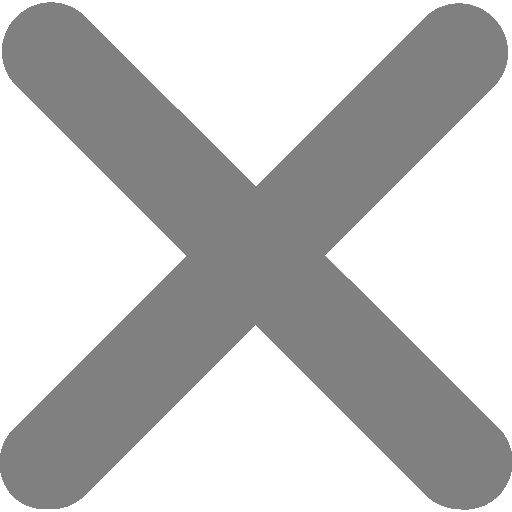
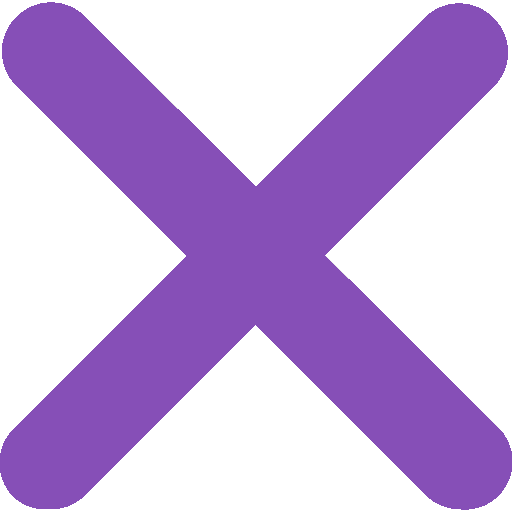
Changing design of registration

diff --git a/MapDBTrack/Registration.xaml b/MapDBTrack/Registration.xaml
@@ -3,54 +3,162 @@
         xmlns:x="http://schemas.microsoft.com/winfx/2006/xaml"
         xmlns:d="http://schemas.microsoft.com/expression/blend/2008"
         xmlns:mc="http://schemas.openxmlformats.org/markup-compatibility/2006"
+        xmlns:materialDesign="http://materialdesigninxaml.net/winfx/xaml/themes"
         xmlns:local="clr-namespace:MapDBTrack"
-        mc:Ignorable="d"
-        Title="Registration" Height="850" Width="600" ResizeMode="NoResize">
+        mc:Ignorable="d" WindowStartupLocation="CenterScreen" WindowStyle="None" AllowsTransparency="True"
+        Background="Transparent"
+        Title="MainWindow" Height="600" Width="800" FontFamily="{DynamicResource MaterialDesignFont}">
 
 
-    <Grid>
-        <Image Source="Pictures/Background.jpg" Stretch="Fill"/>
-        <Border Grid.Column="0" Grid.Row="0" Width="400" CornerRadius="30" BorderThickness="2" Background="#FFD1E1EC" Margin="75,75,75,75">
+    <Grid MouseDown="BorderClick">
+        <Grid.ColumnDefinitions>
+            <ColumnDefinition Width="*"/>
+            <ColumnDefinition Width="1.5*"/>
+        </Grid.ColumnDefinitions>
+        <Border Background="#FF7B4BA5" CornerRadius="15,0,0,15">
             <Grid>
-                <Grid.RowDefinitions>
-                    <RowDefinition Height="80"/>
-                    <RowDefinition Height="2"/>
-                    <RowDefinition Height="*"/>
-                    <RowDefinition Height="*"/>
-                    <RowDefinition Height="*"/>
-                    <RowDefinition Height="*"/>
-                    <RowDefinition Height="90"/>
-                </Grid.RowDefinitions>
-                <Grid.ColumnDefinitions>
-                    <ColumnDefinition Width="*"/>
-                    <ColumnDefinition Width="*"/>
-                </Grid.ColumnDefinitions>
-
-
-                <TextBlock Grid.Row="0" Grid.Column="0" Grid.ColumnSpan="2" Foreground="#FF2F5588" Text="REGISTRATION" VerticalAlignment="Center" HorizontalAlignment="Center" FontSize="35" FontWeight="DemiBold" FontFamily="Calibri"/>
-                <Border Grid.Row="1" Grid.Column="0"  Grid.ColumnSpan="2" Background="#FF2F5588" />
-                
-                <TextBox x:Name="Login" Grid.Row="2" Grid.Column="0" Grid.ColumnSpan="2" TextChanged="LoginChanged"  Style="{StaticResource RoundedTextBox}"/>
-                <TextBox x:Name="Email" Grid.Row="3" Grid.Column="0" Grid.ColumnSpan="2" TextChanged="EmailChanged"  Style="{StaticResource RoundedTextBoxEmail}"/>
-                <TextBox x:Name="Password" Grid.Row="4" Grid.Column="0" Grid.ColumnSpan="2" TextChanged="PasswordChanged"   Style="{StaticResource RoundedTextBox}"/>
-                <TextBox x:Name="RepeatPassword" Grid.Row="5" Grid.Column="0" Grid.ColumnSpan="2" TextChanged="RepeatPasswordChanged"  Style="{StaticResource RoundedTextBox}"/>
-
-
-                <TextBlock Text="User name" Grid.Row="2" Width="60" Height="20" Margin="47,24,91,83" Foreground="#FF2F5588" FontWeight="DemiBold" FontFamily="Calibri"/>
-                <TextBlock Text="Email" Grid.Row="3" Width="60" Height="20" Margin="47,24,91,83" Foreground="#FF2F5588" FontWeight="DemiBold" FontFamily="Calibri"/>
-                <TextBlock Text="Password" Grid.Row="4" Width="60" Height="20" Margin="47,24,91,83" Foreground="#FF2F5588" FontWeight="DemiBold" FontFamily="Calibri"/>
-                <TextBlock Text="Repeat password" Grid.Row="5" Height="20" Margin="47,24,63,83" Foreground="#FF2F5588" FontWeight="DemiBold" FontFamily="Calibri"/>
-
-                <TextBlock x:Name="LoginFailed" Text="" Grid.Column="0" Grid.ColumnSpan="2" Grid.Row="2" Width="200" Height="20" Margin="47,83,149,24" FontSize="10" FontWeight="DemiBold" Foreground="Red" FontFamily="Calibri"/>
-                <TextBlock x:Name="EmailFailed" Text="" Grid.Column="0" Grid.ColumnSpan="2" Grid.Row="3" Width="200" Height="20" Margin="47,83,157,24" FontSize="10" FontWeight="DemiBold" Foreground="Red" FontFamily="Calibri"/>
-                <TextBlock x:Name="PasswordFailed" Text="" Grid.Column="0" Grid.ColumnSpan="2" Grid.Row="4" Width="200" Height="20" Margin="47,83,157,24" FontSize="10" FontWeight="DemiBold" Foreground="Red" FontFamily="Calibri"/>
-                <TextBlock x:Name="RepeatPasswordFailed" Text="" Grid.Column="0" Grid.ColumnSpan="2" Grid.Row="5" Width="200" Height="20" Margin="47,83,157,24" FontSize="10" FontWeight="DemiBold" Foreground="Red" FontFamily="Calibri"/>
-
-                <Button Content="Back" Click="Back" Grid.Column="0" Grid.Row="6" Style="{StaticResource ButtonRounded}"/>
-                <Button Content="Accept" Click="SignUp" Grid.Column="1" Grid.Row="6" Style="{StaticResource ButtonRounded}"/>
-
+                <Image Source="/Pictures/PinLogin.png" Margin="42,120,208,410" Style="{StaticResource LoginPinImage}">
+                    <Image.RenderTransform>
+                        <TransformGroup>
+                            <ScaleTransform/>
+                            <SkewTransform/>
+                            <RotateTransform Angle="66.012"/>
+                            <TranslateTransform/>
+                        </TransformGroup>
+                    </Image.RenderTransform>
+                </Image>
+                <Image Source="/Pictures/PinLogin.png" Margin="8,522,242,8" Style="{StaticResource LoginPinImage}">
+                    <Image.RenderTransform>
+                        <TransformGroup>
+                            <ScaleTransform/>
+                            <SkewTransform/>
+                            <RotateTransform Angle="-99.619"/>
+                            <TranslateTransform/>
+                        </TransformGroup>
+                    </Image.RenderTransform>
+                </Image>
+                <Image Source="/Pictures/PinLogin.png" Margin="223,512,27,18" Style="{StaticResource LoginPinImage}">
+                    <Image.RenderTransform>
+                        <TransformGroup>
+                            <ScaleTransform/>
+                            <SkewTransform/>
+                            <RotateTransform Angle="104.19"/>
+                            <TranslateTransform/>
+                        </TransformGroup>
+                    </Image.RenderTransform>
+                </Image>
+                <Image Source="/Pictures/PinLogin.png" Margin="133,9,117,521" Style="{StaticResource LoginPinImage}">
+                    <Image.RenderTransform>
+                        <TransformGroup>
+                            <ScaleTransform/>
+                            <SkewTransform/>
+                            <RotateTransform Angle="184.246"/>
+                            <TranslateTransform/>
+                        </TransformGroup>
+                    </Image.RenderTransform>
+                </Image>
+                <Image Source="/Pictures/PinLogin.png" Margin="219,28,31,352" Style="{StaticResource LoginPinImage}">
+                    <Image.RenderTransform>
+                        <TransformGroup>
+                            <ScaleTransform/>
+                            <SkewTransform/>
+                            <RotateTransform Angle="170.632"/>
+                            <TranslateTransform/>
+                        </TransformGroup>
+                    </Image.RenderTransform>
+                </Image>
+                <Image Source="/Pictures/PinLogin.png" Margin="22,200,228,180" Style="{StaticResource LoginPinImage}">
+                    <Image.RenderTransform>
+                        <TransformGroup>
+                            <ScaleTransform/>
+                            <SkewTransform/>
+                            <RotateTransform Angle="-0.856"/>
+                            <TranslateTransform/>
+                        </TransformGroup>
+                    </Image.RenderTransform>
+                </Image>
+                <Image Source="/Pictures/PinLogin.png" Margin="206,246,44,134" Style="{StaticResource LoginPinImage}">
+                    <Image.RenderTransform>
+                        <TransformGroup>
+                            <ScaleTransform/>
+                            <SkewTransform/>
+                            <RotateTransform Angle="-74.402"/>
+                            <TranslateTransform/>
+                        </TransformGroup>
+                    </Image.RenderTransform>
+                </Image>
+                <Image Source="/Pictures/PinLogin.png" Margin="101,346,149,34" Style="{StaticResource LoginPinImage}">
+                    <Image.RenderTransform>
+                        <TransformGroup>
+                            <ScaleTransform/>
+                            <SkewTransform/>
+                            <RotateTransform Angle="25.655"/>
+                            <TranslateTransform/>
+                        </TransformGroup>
+                    </Image.RenderTransform>
+                </Image>
+                <Grid>
+                    <Grid.RowDefinitions>
+                        <RowDefinition Height="84*"/>
+                        <RowDefinition Height="22*"/>
+                        <RowDefinition Height="20*"/>
+                        <RowDefinition Height="74*"/>
+                    </Grid.RowDefinitions>
+                    <Image Source="/Pictures/add-group.png" Margin="80,40,80,20" RenderOptions.BitmapScalingMode="HighQuality"/>
+                    <TextBlock Text="Let's get you set up" Grid.Row="1" Foreground="White" FontSize="32" VerticalAlignment="Center" HorizontalAlignment="Center" FontFamily="Calibri"/>
+                    <TextBlock Text="it should only take a couple of minutes to pair with your watch" Grid.Row="2" TextWrapping="Wrap" TextAlignment="Center"  VerticalAlignment="Center" HorizontalAlignment="Center" FontSize="15" Foreground="White" FontFamily="Calibri" Width="254"/>
+                    <Image Source="/Pictures/enter.png" Grid.Row="3"  RenderOptions.BitmapScalingMode="HighQuality" Margin="129,106,129,54" IsHitTestVisible="False"/>
+                    <Button Grid.Row="3" Background="Transparent" BorderBrush="Transparent"  Click="ExitClick" Width="50" Height="60" Margin="135,107,135,55"/>
+                </Grid>
             </Grid>
         </Border>
+        <Border Grid.Column="1" CornerRadius="0,15,15,0" Background="White">
+            <Grid>
+                <StackPanel HorizontalAlignment="Center" Margin="0,70,0,0" VerticalAlignment="Top" Width="340" Height="395">
+                    <TextBox x:Name="Login" TextChanged="LoginChanged" Height="50" FontSize="17" BorderThickness="0 0 0 1.5" BorderBrush="#C5C8CC" materialDesign:HintAssist.FloatingOffset="0,-20" materialDesign:HintAssist.Hint="Username" Margin="0,0,0,10" Text="" Style="{StaticResource MaterialDesignFloatingHintTextBox}" />
+                    <TextBlock x:Name="LoginFailed" Style="{StaticResource TextBlokcsError}" Margin="2,0,0,15" HorizontalAlignment="Left"/>
+                    <TextBox x:Name="Email" TextChanged="EmailChanged" Height="50" FontSize="17" BorderThickness="0 0 0 1.5" BorderBrush="#C5C8CC" materialDesign:HintAssist.FloatingOffset="0,-20" materialDesign:HintAssist.Hint="Email" Text="" Margin="0 0 0 10" Style="{StaticResource MaterialDesignFloatingHintTextBox}" />
+                    <TextBlock x:Name="EmailFailed" Style="{StaticResource TextBlokcsError}" Margin="2,0,0,15" HorizontalAlignment="Left"/>
+                    <PasswordBox x:Name="Password" PasswordChanged="PasswordChanged" Height="50" FontSize="17" BorderThickness="0 0 0 1.5" BorderBrush="#C5C8CC" materialDesign:HintAssist.FloatingOffset="0,-20" materialDesign:HintAssist.Hint="Password" Password=""  Style="{StaticResource MaterialDesignFloatingHintPasswordBox}" />
+                    <TextBlock x:Name="PasswordFailed" Style="{StaticResource TextBlokcsError}" Margin="2,0,0,15" HorizontalAlignment="Left"/>
+                    <PasswordBox x:Name="RepeatPassword" PasswordChanged="RepeatPasswordChanged" Height="50" FontSize="17" BorderThickness="0 0 0 1.5" BorderBrush="#C5C8CC" materialDesign:HintAssist.FloatingOffset="0,-20" materialDesign:HintAssist.Hint="Repeat Password" Password="" Margin="0 10 0 0" Style="{StaticResource MaterialDesignFloatingHintPasswordBox}" />
+                    <TextBlock x:Name="RepeatPasswordFailed" Style="{StaticResource TextBlokcsError}" Margin="2,0,0,15" HorizontalAlignment="Left"/>
 
+                </StackPanel>
+                <Image Source="/Pictures/close.png" Margin="453,10,10,573" RenderOptions.BitmapScalingMode="HighQuality" IsHitTestVisible="False"/>
+                <Image Source="/Pictures/info.png" Margin="423,10,40,573" RenderOptions.BitmapScalingMode="HighQuality" IsHitTestVisible="False"/>
+
+                <Button BorderBrush="Transparent" Background="Transparent" Click="ExitClick" Cursor="Hand" Height="17" Width="17" Margin="453,10,10,573">
+                    <Button.Template>
+                        <ControlTemplate TargetType="Button">
+                            <Border Background="Transparent" Padding="{TemplateBinding Padding}">
+                                <ContentPresenter HorizontalAlignment="{TemplateBinding HorizontalContentAlignment}" VerticalAlignment="{TemplateBinding VerticalContentAlignment}" />
+                            </Border>
+                            <ControlTemplate.Triggers>
+                                <Trigger Property="IsEnabled" Value="False">
+                                    <Setter Property="Background" Value="Transparent" />
+                                </Trigger>
+                            </ControlTemplate.Triggers>
+                        </ControlTemplate>
+                    </Button.Template>
+                </Button>
+
+                <Button BorderBrush="Transparent" Background="Transparent" Click="InfoClick" Cursor="Hand" Height="17" Width="17" Margin="423,10,40,573">
+                    <Button.Template>
+                        <ControlTemplate TargetType="Button">
+                            <Border Background="Transparent" Padding="{TemplateBinding Padding}">
+                                <ContentPresenter HorizontalAlignment="{TemplateBinding HorizontalContentAlignment}" VerticalAlignment="{TemplateBinding VerticalContentAlignment}" />
+                            </Border>
+                            <ControlTemplate.Triggers>
+                                <Trigger Property="IsEnabled" Value="False">
+                                    <Setter Property="Background" Value="Transparent" />
+                                </Trigger>
+                            </ControlTemplate.Triggers>
+                        </ControlTemplate>
+                    </Button.Template>
+                </Button>
+                <Button Click="SignUp" Style="{StaticResource ButtonSign}" Content="Sign up" Margin="160,485,160,55"/>
+            </Grid>
+        </Border>
     </Grid>
 </Window>

diff --git a/MapDBTrack/Login.xaml b/MapDBTrack/Login.xaml
@@ -6,7 +6,7 @@
         xmlns:local="clr-namespace:MapDBTrack"
         mc:Ignorable="d" WindowStartupLocation="CenterScreen" WindowStyle="None" AllowsTransparency="True"
         Background="Transparent"
-        Title="MainWindow" Height="450" Width="800">
+        Title="MainWindow" Height="450" Width="800" ResizeMode="NoResize">
 
     <Grid MouseDown="BorderClick">
         <Grid.ColumnDefinitions>
@@ -93,7 +93,8 @@
                     <RowDefinition Height="*"/>
                 </Grid.RowDefinitions>
 
-                <Image Source="/Pictures/close.png" Margin="453,10,10,86" Opacity="0.4" RenderOptions.BitmapScalingMode="HighQuality" IsHitTestVisible="False"/>
+                <Image Source="/Pictures/close.png" Margin="453,10,10,86" RenderOptions.BitmapScalingMode="HighQuality" IsHitTestVisible="False"/>
+
                 <Button Margin="453,10,10,86" BorderBrush="Transparent" Background="Transparent" Click="ExitClick" Cursor="Hand">
                     <Button.Template>
                         <ControlTemplate TargetType="Button">

diff --git a/MapDBTrack/App.xaml b/MapDBTrack/App.xaml
@@ -1,13 +1,20 @@
 <Application x:Class="MapDBTrack.App"
              xmlns="http://schemas.microsoft.com/winfx/2006/xaml/presentation"
              xmlns:x="http://schemas.microsoft.com/winfx/2006/xaml"
+             xmlns:materialDesign="http://materialdesigninxaml.net/winfx/xaml/themes"
              xmlns:local="clr-namespace:MapDBTrack"
              StartupUri="Login.xaml">
     <Application.Resources>
         <ResourceDictionary>
             <ResourceDictionary.MergedDictionaries>
                 <ResourceDictionary Source="Style.xaml"/>
+                <materialDesign:BundledTheme BaseTheme="Light"
+                                             PrimaryColor="Purple"
+                                             SecondaryColor="Purple"/>
+                <ResourceDictionary Source="pack://application:,,,/MaterialDesignThemes.Wpf;component/Themes/MaterialDesignTheme.Defaults.xaml"/>
             </ResourceDictionary.MergedDictionaries>
         </ResourceDictionary>
+        
     </Application.Resources>
+    
 </Application>

diff --git a/MapDBTrack/Registration.xaml.cs b/MapDBTrack/Registration.xaml.cs
@@ -42,7 +42,7 @@ namespace MapDBTrack
                 return;
 
             string sqlQuery = "Insert Into Employee (login, password, email)";
-            string values = $"\nValues ('{Login.Text}','{Password.Text}','{Email.Text}')";
+            string values = $"\nValues ('{Login.Text}','{Password.Password}','{Email.Text}')";
 
             sqlQuery += values;
             SqlCommand command = new SqlCommand(sqlQuery, sql);
@@ -62,13 +62,13 @@ namespace MapDBTrack
                 correct = false;
             }
 
-            if (string.IsNullOrEmpty(Password.Text))
+            if (string.IsNullOrEmpty(Password.Password))
             {
                 PasswordFailed.Text = "Password is empty";
                 correct = false;
             }
 
-            if (string.IsNullOrEmpty(RepeatPassword.Text))
+            if (string.IsNullOrEmpty(RepeatPassword.Password))
             {
                 RepeatPasswordFailed.Text = "Password repeat is empty";
                 correct = false;
@@ -120,7 +120,7 @@ namespace MapDBTrack
         } // Checking login (new login can not be in db before)
         private bool PasswordCheck()
         {
-            if (Password.Text.Length < 6)
+            if (Password.Password.Length < 6)
             {
                 PasswordFailed.Text = "Password is too short";
                 return false;
@@ -137,7 +137,7 @@ namespace MapDBTrack
         } // Checking password (correct length)
         private bool RepeatPasswordCheck()
         {
-            if (RepeatPassword.Text.Trim() != Password.Text.Trim())
+            if (RepeatPassword.Password.Trim() != Password.Password.Trim())
             {
                 RepeatPasswordFailed.Text = "Passwords are not the same";
                 return false;
@@ -168,7 +168,20 @@ namespace MapDBTrack
 
             return true;
         } // Checking email (new email can not be in db before)
-
+        private void BorderClick(object sender, MouseButtonEventArgs e)
+        {
+            if (e.ChangedButton == MouseButton.Left)
+                this.DragMove();
+        } // feature to moving window
+        private void ExitClick(object sender, RoutedEventArgs e)
+        {
+            this.Close();
+        } // Exit button
+        private void InfoClick(object sender, RoutedEventArgs e)
+        {
+            string info = $"{HelpingClass.version}\nContact: kus.konrad1@gmail.com\nLicense: MapDBTrack Commercial Use License";
+            MessageBox.Show(info, "Information", MessageBoxButton.OK, MessageBoxImage.Information);
+        }
         #endregion
 
         #region Features to clean information about uncorrect registration

diff --git a/MapDBTrack/HelpingClass.cs b/MapDBTrack/HelpingClass.cs
@@ -22,6 +22,7 @@ namespace MapDBTrack
 
     public static class HelpingClass
     {
+
         public const string version = "1.1";
         public static string[] engExp = new string[]
         {
